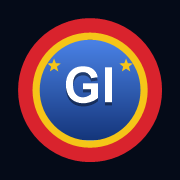
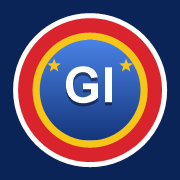
V7 : tout le site aux couleurs du GIGN (bleu roi, or, rouge, blanc) et nouvelles icones

diff --git a/index.html b/index.html
@@ -3,7 +3,7 @@
 <head>
   <meta charset="UTF-8">
   <meta name="viewport" content="width=device-width, initial-scale=1, viewport-fit=cover">
-  <meta name="theme-color" content="#050b18">
+  <meta name="theme-color" content="#0a2457">
   <meta name="color-scheme" content="dark">
   <meta name="description" content="ROAD TO GI : programme d'entraînement, charges, chronos et suivi, utilisable hors ligne.">
   <meta name="apple-mobile-web-app-capable" content="yes">
@@ -11,7 +11,7 @@
   <meta name="apple-mobile-web-app-title" content="ROAD TO GI">
   <title>ROAD TO GI</title>
   <style>
-:root{--bg:#050b18;--surface:#0b1730;--surface2:#11224a;--line:#223a70;--text:#f3f6fc;--muted:#94a3c4;--accent:#f5c518;--accent2:#2f64c8;--good:#58d39b;--warn:#f2bb5f;--danger:#ff4f58;--shadow:0 10px 30px rgba(0,0,0,.22)}*{box-sizing:border-box}html{background:var(--bg)}body{margin:0;background:var(--bg);color:var(--text);font-family:Inter,ui-sans-serif,system-ui,-apple-system,BlinkMacSystemFont,"Segoe UI",sans-serif;min-height:100vh}button,input,select,textarea{font:inherit}button{cursor:pointer}.shell{width:min(820px,100%);margin:auto;min-height:100vh;padding-bottom:92px}.topbar{position:sticky;top:0;z-index:20;background:rgba(5,11,24,.94);backdrop-filter:blur(16px);border-bottom:1px solid var(--line);padding:14px 16px;display:flex;align-items:center;justify-content:space-between;gap:12px}.brand{display:flex;align-items:center;gap:11px;min-width:0}.brandmark{width:42px;height:42px;border-radius:12px;background:var(--surface2);display:grid;place-items:center;border:1px solid var(--line);font-weight:900;color:var(--accent)}.brand h1{font-size:17px;letter-spacing:1.4px;margin:0}.brand p{font-size:12px;color:var(--muted);margin:2px 0 0}.top-controls{display:flex;gap:8px}.compact-select{appearance:none;border:1px solid var(--line);background:var(--surface);color:var(--text);border-radius:10px;padding:9px 26px 9px 10px;font-size:12px}.main{padding:16px}.hero{background:linear-gradient(135deg,#16356f,#0a1631);border:1px solid var(--line);border-radius:20px;padding:20px;margin-bottom:14px;box-shadow:var(--shadow)}.eyebrow{font-size:11px;letter-spacing:1.6px;font-weight:800;color:var(--accent);margin:0 0 8px}.hero h2{font-size:28px;line-height:1.05;margin:0 0 8px}.muted{color:var(--muted)}.hero p{margin:0}.hero-actions{display:flex;gap:10px;flex-wrap:wrap;margin-top:16px}.btn{border:1px solid var(--line);background:var(--surface2);color:var(--text);min-height:44px;border-radius:11px;padding:10px 14px;font-weight:750}.btn.primary{background:var(--accent);color:#050b18;border-color:transparent}.btn.good{background:var(--good);color:#082015;border-color:transparent}.btn.danger{color:#ffdfe1;border-color:#7a232b;background:#2a1219}.btn.ghost{background:transparent}.grid{display:grid;gap:12px}.stats{grid-template-columns:repeat(4,minmax(0,1fr));margin-bottom:14px}.stat{background:var(--surface);border:1px solid var(--line);border-radius:15px;padding:14px;min-width:0}.stat span{font-size:11px;color:var(--muted);display:block;margin-bottom:6px}.stat strong{font-size:18px;display:block;overflow-wrap:anywhere}.card{background:var(--surface);border:1px solid var(--line);border-radius:16px;padding:16px;margin-bottom:12px}.card h3,.card h4{margin:0}.card-head{display:flex;justify-content:space-between;gap:10px;align-items:center;margin-bottom:12px}.tag{display:inline-flex;align-items:center;gap:6px;padding:6px 9px;border-radius:999px;background:#1a2f63;color:#ffd84d;font-size:11px;font-weight:800}.progress{height:9px;background:#16275a;border-radius:999px;overflow:hidden}.progress>div{height:100%;background:var(--accent);border-radius:inherit}.schedule{display:grid;gap:7px}.schedule-row{border:1px solid var(--line);background:var(--surface2);border-radius:12px;padding:12px;display:grid;grid-template-columns:90px 1fr auto;align-items:center;gap:8px}.schedule-row.today{border-color:#f5c518;background:#14295c}.schedule-row .day{font-size:11px;color:var(--accent);font-weight:900}.schedule-row .kind{font-size:13px;font-weight:700}.schedule-row .arrow{color:var(--muted)}.section-title{font-size:22px;margin:6px 0 14px}.tabs{display:flex;gap:8px;overflow-x:auto;padding-bottom:8px;margin-bottom:8px}.tab{white-space:nowrap;border:1px solid var(--line);background:var(--surface);color:var(--muted);border-radius:999px;padding:9px 12px}.tab.active{background:#1b3770;color:#fff1b8;border-color:#d8ac12}.source-block{white-space:pre-wrap;line-height:1.5;color:#dbe3f3;font-size:13px;background:#070f22;border:1px solid var(--line);border-radius:12px;padding:13px;max-height:330px;overflow:auto}.source-block.expanded{max-height:none}.source-toggle{margin-top:10px}.worklist{display:grid;gap:7px}.workitem{display:grid;grid-template-columns:36px 1fr;gap:10px;align-items:flex-start;background:var(--surface2);border:1px solid var(--line);padding:11px;border-radius:12px}.workitem input{width:22px;height:22px;margin:1px 0}.workitem.done{opacity:.55}.workitem.done .worktext{text-decoration:line-through}.worktext{font-size:13px;line-height:1.38}.force-grid{display:grid;gap:8px}.force-row{display:grid;grid-template-columns:1fr 80px 76px 44px;gap:7px;align-items:center;background:var(--surface2);border:1px solid var(--line);border-radius:12px;padding:10px}.force-row input{width:100%;background:#070f22;color:var(--text);border:1px solid var(--line);border-radius:8px;padding:8px}.force-row .check{width:40px;height:40px;border-radius:9px;border:1px solid var(--line);background:#09142b;color:var(--text)}.force-row .check.done{background:var(--good);color:#062116}.timer-panel{text-align:center}.timer-display{font-variant-numeric:tabular-nums;font-size:54px;font-weight:900;letter-spacing:1px;margin:4px 0 12px}.timer-status{font-size:12px;color:var(--muted);min-height:18px}.quick-timers{display:flex;gap:7px;flex-wrap:wrap;justify-content:center;margin-top:10px}.quick-timers button{min-width:60px}.form-grid{display:grid;grid-template-columns:repeat(2,minmax(0,1fr));gap:12px}.field label{display:block;color:var(--muted);font-size:12px;margin-bottom:6px}.field input,.field select{width:100%;min-height:46px;background:#070f22;color:var(--text);border:1px solid var(--line);border-radius:10px;padding:10px 12px;font-size:16px}.notice{padding:12px;border:1px solid #2f4f94;border-radius:12px;background:#0f2250;color:#dbe6ff;font-size:13px;line-height:1.45}.history-row{display:grid;grid-template-columns:1fr auto;gap:10px;padding:12px 0;border-bottom:1px solid var(--line)}.history-row:last-child{border-bottom:0}.history-row small{color:var(--muted)}.bottomnav{position:fixed;left:50%;bottom:0;transform:translateX(-50%);width:min(820px,100%);height:76px;background:rgba(5,11,24,.97);border-top:1px solid var(--line);display:grid;grid-template-columns:repeat(6,1fr);z-index:30;padding-bottom:env(safe-area-inset-bottom)}.navbtn{border:0;background:transparent;color:#8191b5;display:flex;flex-direction:column;gap:4px;align-items:center;justify-content:center;font-size:10px}.navbtn b{font-size:18px}.navbtn.active{color:var(--accent)}.empty{padding:26px;text-align:center;color:var(--muted)}.pill-row{display:flex;gap:8px;flex-wrap:wrap}.result{font-size:13px;line-height:1.55}.result strong{color:#fff}.divider{height:1px;background:var(--line);margin:14px 0}.sr-only{position:absolute;width:1px;height:1px;padding:0;margin:-1px;overflow:hidden;clip:rect(0,0,0,0);white-space:nowrap;border:0}@media(max-width:640px){.stats{grid-template-columns:repeat(2,minmax(0,1fr))}.form-grid{grid-template-columns:1fr}.schedule-row{grid-template-columns:74px 1fr 16px}.force-row{grid-template-columns:1fr 65px 65px 40px}.top-controls{gap:5px}.compact-select{padding-left:8px;padding-right:20px}.hero h2{font-size:24px}.timer-display{font-size:46px}.main{padding:12px}}
+:root{--bg:#0a2457;--surface:#133a85;--surface2:#1b4a9e;--line:#3a69c4;--text:#ffffff;--muted:#b7c8f0;--accent:#f5c518;--accent2:#2f64c8;--good:#58d39b;--warn:#f2bb5f;--danger:#ff5a63;--shadow:0 10px 30px rgba(0,0,0,.22)}*{box-sizing:border-box}html{background:var(--bg)}body{margin:0;background:var(--bg);color:var(--text);font-family:Inter,ui-sans-serif,system-ui,-apple-system,BlinkMacSystemFont,"Segoe UI",sans-serif;min-height:100vh}button,input,select,textarea{font:inherit}button{cursor:pointer}.shell{width:min(820px,100%);margin:auto;min-height:100vh;padding-bottom:92px}.topbar{position:sticky;top:0;z-index:20;background:rgba(8,29,74,.94);backdrop-filter:blur(16px);border-bottom:1px solid var(--line);padding:14px 16px;display:flex;align-items:center;justify-content:space-between;gap:12px}.brand{display:flex;align-items:center;gap:11px;min-width:0}.brandmark{width:42px;height:42px;border-radius:12px;background:var(--surface2);display:grid;place-items:center;border:1px solid var(--line);font-weight:900;color:var(--accent)}.brand h1{font-size:17px;letter-spacing:1.4px;margin:0}.brand p{font-size:12px;color:var(--muted);margin:2px 0 0}.top-controls{display:flex;gap:8px}.compact-select{appearance:none;border:1px solid var(--line);background:var(--surface);color:var(--text);border-radius:10px;padding:9px 26px 9px 10px;font-size:12px}.main{padding:16px}.hero{background:linear-gradient(135deg,#2a66d6,#123a85);border:1px solid var(--line);border-radius:20px;padding:20px;margin-bottom:14px;box-shadow:var(--shadow)}.eyebrow{font-size:11px;letter-spacing:1.6px;font-weight:800;color:var(--accent);margin:0 0 8px}.hero h2{font-size:28px;line-height:1.05;margin:0 0 8px}.muted{color:var(--muted)}.hero p{margin:0}.hero-actions{display:flex;gap:10px;flex-wrap:wrap;margin-top:16px}.btn{border:1px solid var(--line);background:var(--surface2);color:var(--text);min-height:44px;border-radius:11px;padding:10px 14px;font-weight:750}.btn.primary{background:var(--accent);color:#061a45;border-color:transparent}.btn.good{background:var(--good);color:#082015;border-color:transparent}.btn.danger{color:#ffffff;border-color:#ff6b73;background:#c91f2a}.btn.ghost{background:transparent}.grid{display:grid;gap:12px}.stats{grid-template-columns:repeat(4,minmax(0,1fr));margin-bottom:14px}.stat{background:var(--surface);border:1px solid var(--line);border-radius:15px;padding:14px;min-width:0}.stat span{font-size:11px;color:var(--muted);display:block;margin-bottom:6px}.stat strong{font-size:18px;display:block;overflow-wrap:anywhere}.card{background:var(--surface);border:1px solid var(--line);border-radius:16px;padding:16px;margin-bottom:12px}.card h3,.card h4{margin:0}.card-head{display:flex;justify-content:space-between;gap:10px;align-items:center;margin-bottom:12px}.tag{display:inline-flex;align-items:center;gap:6px;padding:6px 9px;border-radius:999px;background:#0b2860;color:#ffd84d;font-size:11px;font-weight:800}.progress{height:9px;background:#0b2860;border-radius:999px;overflow:hidden}.progress>div{height:100%;background:var(--accent);border-radius:inherit}.schedule{display:grid;gap:7px}.schedule-row{border:1px solid var(--line);background:var(--surface2);border-radius:12px;padding:12px;display:grid;grid-template-columns:90px 1fr auto;align-items:center;gap:8px}.schedule-row.today{border-color:#f5c518;background:#2257b8}.schedule-row .day{font-size:11px;color:var(--accent);font-weight:900}.schedule-row .kind{font-size:13px;font-weight:700}.schedule-row .arrow{color:var(--muted)}.section-title{font-size:22px;margin:6px 0 14px}.tabs{display:flex;gap:8px;overflow-x:auto;padding-bottom:8px;margin-bottom:8px}.tab{white-space:nowrap;border:1px solid var(--line);background:var(--surface);color:var(--muted);border-radius:999px;padding:9px 12px}.tab.active{background:#2257b8;color:#fff1b8;border-color:#d8ac12}.source-block{white-space:pre-wrap;line-height:1.5;color:#eaf0ff;font-size:13px;background:#0b2860;border:1px solid var(--line);border-radius:12px;padding:13px;max-height:330px;overflow:auto}.source-block.expanded{max-height:none}.source-toggle{margin-top:10px}.worklist{display:grid;gap:7px}.workitem{display:grid;grid-template-columns:36px 1fr;gap:10px;align-items:flex-start;background:var(--surface2);border:1px solid var(--line);padding:11px;border-radius:12px}.workitem input{width:22px;height:22px;margin:1px 0}.workitem.done{opacity:.55}.workitem.done .worktext{text-decoration:line-through}.worktext{font-size:13px;line-height:1.38}.force-grid{display:grid;gap:8px}.force-row{display:grid;grid-template-columns:1fr 80px 76px 44px;gap:7px;align-items:center;background:var(--surface2);border:1px solid var(--line);border-radius:12px;padding:10px}.force-row input{width:100%;background:#0b2860;color:var(--text);border:1px solid var(--line);border-radius:8px;padding:8px}.force-row .check{width:40px;height:40px;border-radius:9px;border:1px solid var(--line);background:#0b2860;color:var(--text)}.force-row .check.done{background:var(--good);color:#062116}.timer-panel{text-align:center}.timer-display{font-variant-numeric:tabular-nums;font-size:54px;font-weight:900;letter-spacing:1px;margin:4px 0 12px}.timer-status{font-size:12px;color:var(--muted);min-height:18px}.quick-timers{display:flex;gap:7px;flex-wrap:wrap;justify-content:center;margin-top:10px}.quick-timers button{min-width:60px}.form-grid{display:grid;grid-template-columns:repeat(2,minmax(0,1fr));gap:12px}.field label{display:block;color:var(--muted);font-size:12px;margin-bottom:6px}.field input,.field select{width:100%;min-height:46px;background:#0b2860;color:var(--text);border:1px solid var(--line);border-radius:10px;padding:10px 12px;font-size:16px}.notice{padding:12px;border:1px solid #4a7ad6;border-radius:12px;background:#0e2f72;color:#e6eeff;font-size:13px;line-height:1.45}.history-row{display:grid;grid-template-columns:1fr auto;gap:10px;padding:12px 0;border-bottom:1px solid var(--line)}.history-row:last-child{border-bottom:0}.history-row small{color:var(--muted)}.bottomnav{position:fixed;left:50%;bottom:0;transform:translateX(-50%);width:min(820px,100%);height:76px;background:rgba(8,29,74,.97);border-top:1px solid var(--line);display:grid;grid-template-columns:repeat(6,1fr);z-index:30;padding-bottom:env(safe-area-inset-bottom)}.navbtn{border:0;background:transparent;color:#a9bdee;display:flex;flex-direction:column;gap:4px;align-items:center;justify-content:center;font-size:10px}.navbtn b{font-size:18px}.navbtn.active{color:var(--accent)}.empty{padding:26px;text-align:center;color:var(--muted)}.pill-row{display:flex;gap:8px;flex-wrap:wrap}.result{font-size:13px;line-height:1.55}.result strong{color:#fff}.divider{height:1px;background:var(--line);margin:14px 0}.sr-only{position:absolute;width:1px;height:1px;padding:0;margin:-1px;overflow:hidden;clip:rect(0,0,0,0);white-space:nowrap;border:0}@media(max-width:640px){.stats{grid-template-columns:repeat(2,minmax(0,1fr))}.form-grid{grid-template-columns:1fr}.schedule-row{grid-template-columns:74px 1fr 16px}.force-row{grid-template-columns:1fr 65px 65px 40px}.top-controls{gap:5px}.compact-select{padding-left:8px;padding-right:20px}.hero h2{font-size:24px}.timer-display{font-size:46px}.main{padding:12px}}
   
 /* Modification rapide des RM */
 .rm-head{
@@ -51,7 +51,7 @@
     padding:10px;
     border:1px solid var(--line);
     border-radius:12px;
-    background:#070f22;
+    background:#0b2860;
 }
 .rm-inline-editor label{
     flex:1;
@@ -66,7 +66,7 @@
     padding:8px 10px;
     border:1px solid var(--line);
     border-radius:9px;
-    background:#050c1b;
+    background:#0b2860;
     color:var(--text);
     font-size:16px;
 }
@@ -78,7 +78,7 @@
 }
 .course-session-tabs .btn.active{
     background:var(--accent);
-    color:#050b18;
+    color:#061a45;
     border-color:var(--accent);
 }
 .rm-form-grid{
@@ -106,10 +106,10 @@
 .renfo-row input[type=checkbox]{width:22px;height:22px}.renfo-row label{display:inline-flex;gap:8px;align-items:center}.renfo-options{width:100%;margin:12px 0}.timer-label{min-height:24px;line-height:1.5}.timer-panel{scroll-margin-top:85px}.renfo-complete{opacity:.6}
 
 .inline-timing{margin-top:10px}.inline-timing>.btn{font-size:12px;max-width:100%;text-align:left}.inline-timer-live{margin-top:10px;border-top:1px solid var(--line);padding-top:12px}.inline-timer-time{display:inline-block;font-size:32px;font-variant-numeric:tabular-nums;margin-right:12px}.inline-timer-status{color:var(--accent);font-size:12px}.inline-timer-label{font-size:12px;line-height:1.5;overflow-wrap:anywhere}.inline-timer-live .btn{font-size:12px}.workitem>div{min-width:0}
-.circuit-chrono{padding:16px;background:#0f2250;border:1px solid #d8ac12;border-radius:14px;margin-bottom:16px}.circuit-timer-display{font-size:42px;font-weight:900;font-variant-numeric:tabular-nums;margin:12px 0}.circuit-timer-label{font-size:13px;line-height:1.5}.circuit-chrono .btn{font-size:12px}
+.circuit-chrono{padding:16px;background:#0e2f72;border:1px solid #d8ac12;border-radius:14px;margin-bottom:16px}.circuit-timer-display{font-size:42px;font-weight:900;font-variant-numeric:tabular-nums;margin:12px 0}.circuit-timer-label{font-size:13px;line-height:1.5}.circuit-chrono .btn{font-size:12px}
 .live-clock{font-size:12px;color:var(--accent);margin-top:3px;font-variant-numeric:tabular-nums}.schedule-row{color:var(--text)}.schedule-date{display:block;color:var(--muted);margin-top:4px;font-size:11px}
 
-.wod-card .card-head{align-items:flex-start;flex-wrap:wrap}.wod-card .eyebrow{margin-bottom:5px}.wod-toolbar,.wod-block-actions{display:flex;gap:8px;flex-wrap:wrap;margin:12px 0}.wod-instruction{line-height:1.6;color:#cdd8ee;font-size:13px;margin:10px 0 16px;white-space:normal}.wod-blocks{display:grid;gap:12px}.wod-block{background:#08122a;border:1px solid var(--line);border-radius:14px;padding:16px}.wod-block h4{font-size:16px}.wod-exercises{display:grid;gap:0}.wod-exercise{margin:0;padding:12px 0;background:transparent;border:0;border-bottom:1px solid var(--line);border-radius:0;grid-template-columns:24px 1fr;gap:12px;align-items:center}.wod-exercise:last-child{border-bottom:0}.wod-exercise .worktext{font-size:14px;line-height:1.55;display:block}.wod-window{display:block;color:var(--accent);font-weight:700;font-size:11px;margin:4px 0}.wod-round-nav{display:flex;align-items:center;gap:10px;flex-wrap:wrap;margin:12px 0;padding:10px;background:#0f2250;border-radius:10px}.wod-round-nav strong{flex:1;font-size:14px}.wod-round-nav .btn{font-size:12px}.wod-round-nav .btn:disabled{opacity:.35;cursor:default}.wod-rest{display:flex;align-items:center;justify-content:space-between;gap:10px;flex-wrap:wrap;background:#0e1d40;border-left:3px solid var(--accent);padding:12px;border-radius:10px;font-size:13px}.wod-rest .btn,.wod-block-actions .btn{font-size:12px}.wod-clock{background:#0f2250;border:1px solid #d8ac12;border-radius:12px;padding:16px;margin:12px 0}.wod-clock-time{font-size:38px;font-variant-numeric:tabular-nums;margin-right:12px}.wod-clock-status{color:var(--accent);font-size:12px}.wod-clock-label{font-size:13px;line-height:1.5}.wod-rule{font-size:12px}.wod-block .tag{max-width:100%;white-space:normal}.wod-exercise .btn{font-size:12px;margin-top:8px}
+.wod-card .card-head{align-items:flex-start;flex-wrap:wrap}.wod-card .eyebrow{margin-bottom:5px}.wod-toolbar,.wod-block-actions{display:flex;gap:8px;flex-wrap:wrap;margin:12px 0}.wod-instruction{line-height:1.6;color:#dfe8fb;font-size:13px;margin:10px 0 16px;white-space:normal}.wod-blocks{display:grid;gap:12px}.wod-block{background:#0b2860;border:1px solid var(--line);border-radius:14px;padding:16px}.wod-block h4{font-size:16px}.wod-exercises{display:grid;gap:0}.wod-exercise{margin:0;padding:12px 0;background:transparent;border:0;border-bottom:1px solid var(--line);border-radius:0;grid-template-columns:24px 1fr;gap:12px;align-items:center}.wod-exercise:last-child{border-bottom:0}.wod-exercise .worktext{font-size:14px;line-height:1.55;display:block}.wod-window{display:block;color:var(--accent);font-weight:700;font-size:11px;margin:4px 0}.wod-round-nav{display:flex;align-items:center;gap:10px;flex-wrap:wrap;margin:12px 0;padding:10px;background:#0e2f72;border-radius:10px}.wod-round-nav strong{flex:1;font-size:14px}.wod-round-nav .btn{font-size:12px}.wod-round-nav .btn:disabled{opacity:.35;cursor:default}.wod-rest{display:flex;align-items:center;justify-content:space-between;gap:10px;flex-wrap:wrap;background:#0e2f72;border-left:3px solid var(--accent);padding:12px;border-radius:10px;font-size:13px}.wod-rest .btn,.wod-block-actions .btn{font-size:12px}.wod-clock{background:#0e2f72;border:1px solid #d8ac12;border-radius:12px;padding:16px;margin:12px 0}.wod-clock-time{font-size:38px;font-variant-numeric:tabular-nums;margin-right:12px}.wod-clock-status{color:var(--accent);font-size:12px}.wod-clock-label{font-size:13px;line-height:1.5}.wod-rule{font-size:12px}.wod-block .tag{max-width:100%;white-space:normal}.wod-exercise .btn{font-size:12px;margin-top:8px}
 
 /* V5 : confort iPhone, chrono flottant, sauvegarde */
 html{-webkit-text-size-adjust:100%;text-size-adjust:100%;color-scheme:dark}
@@ -117,14 +117,14 @@ body{-webkit-tap-highlight-color:transparent;overscroll-behavior-y:none}
 button,select,input,label,summary{touch-action:manipulation}
 .topbar{padding-top:calc(14px + env(safe-area-inset-top,0px));padding-left:calc(16px + env(safe-area-inset-left,0px));padding-right:calc(16px + env(safe-area-inset-right,0px))}
 .compact-select{font-size:16px}
-.mini-timer{position:fixed;left:50%;transform:translateX(-50%);bottom:calc(84px + env(safe-area-inset-bottom,0px));width:min(796px,calc(100% - 24px));z-index:25;display:flex;align-items:center;gap:10px;padding:10px 12px;background:#0f2250;border:1px solid #d8ac12;border-radius:14px;box-shadow:var(--shadow)}
+.mini-timer{position:fixed;left:50%;transform:translateX(-50%);bottom:calc(84px + env(safe-area-inset-bottom,0px));width:min(796px,calc(100% - 24px));z-index:25;display:flex;align-items:center;gap:10px;padding:10px 12px;background:#0e2f72;border:1px solid #d8ac12;border-radius:14px;box-shadow:var(--shadow)}
 .mini-timer[hidden]{display:none}
 .mini-timer-info{flex:1;min-width:0;display:flex;align-items:baseline;gap:10px}
 .mini-timer-info strong{font-size:26px;font-variant-numeric:tabular-nums}
 .mini-timer-info span{font-size:12px;color:#ffd84d;white-space:nowrap;overflow:hidden;text-overflow:ellipsis;min-width:0}
 .mini-timer .btn{min-height:40px;padding:8px 12px;font-size:13px}
 .mini-timer .btn[hidden]{display:none}
-.backup-text{width:100%;margin-top:12px;background:#070f22;color:var(--text);border:1px solid var(--line);border-radius:10px;padding:10px;font-size:16px;font-family:ui-monospace,Menlo,Consolas,monospace;resize:vertical}
+.backup-text{width:100%;margin-top:12px;background:#0b2860;color:var(--text);border:1px solid var(--line);border-radius:10px;padding:10px;font-size:16px;font-family:ui-monospace,Menlo,Consolas,monospace;resize:vertical}
 .btn:focus-visible,.navbtn:focus-visible,.tab:focus-visible,select:focus-visible,input:focus-visible,textarea:focus-visible{outline:2px solid var(--accent);outline-offset:2px}
 .navbtn{min-height:44px}
 .vma-table{width:100%;border-collapse:collapse;margin-top:14px;font-size:13px;font-variant-numeric:tabular-nums}
@@ -137,7 +137,7 @@ button,select,input,label,summary{touch-action:manipulation}
 .coach-notes summary::-webkit-details-marker{display:none}
 .coach-notes summary::after{content:"+";color:var(--accent);font-size:22px;line-height:1}
 .coach-notes[open] summary::after{content:"–"}
-.coach-notes ul{margin:14px 0 0;padding-left:18px;font-size:13px;line-height:1.6;color:#cdd8ee}
+.coach-notes ul{margin:14px 0 0;padding-left:18px;font-size:13px;line-height:1.6;color:#dfe8fb}
 .coach-notes li{margin-bottom:6px}
 @media (prefers-reduced-motion:reduce){*{scroll-behavior:auto!important;transition:none!important;animation:none!important}}
 
@@ -147,9 +147,24 @@ input[type=checkbox],input[type=radio]{accent-color:var(--accent)}
 .brandmark{width:44px;height:44px;border-radius:50%;background:radial-gradient(circle at 50% 36%,#4a82e6 0,#2f64c8 38%,#14357a 100%);border:3px solid var(--gign-gold);box-shadow:0 0 0 2px var(--gign-red),0 3px 10px rgba(0,0,0,.5);color:#fff;font-size:14px;letter-spacing:.5px;text-shadow:0 1px 2px rgba(0,0,0,.55)}
 .topbar{border-bottom:1px solid rgba(245,197,24,.35)}
 .bottomnav{border-top:1px solid rgba(245,197,24,.28)}
-.hero{border-color:#2f4f94}
+.hero{border-color:#4a7ad6}
 .btn.primary{box-shadow:0 2px 0 rgba(0,0,0,.25)}
 .tag{border:1px solid rgba(245,197,24,.25)}
+
+/* V7 : tout le site aux couleurs du GIGN (bleu roi, or, rouge, blanc) */
+html{background:#071d4b}
+body{background:linear-gradient(180deg,#0d2d6b 0,#0a2457 40%,#071d4b 100%);background-repeat:no-repeat;background-color:#071d4b}
+.topbar{border-bottom:0}
+.topbar::after{content:"";position:absolute;left:0;right:0;bottom:0;height:5px;background:linear-gradient(var(--gign-red) 0 50%,var(--gign-gold) 50% 100%)}
+.bottomnav{border-top:3px solid var(--gign-gold);box-shadow:0 -2px 0 var(--gign-red)}
+.brandmark{box-shadow:0 0 0 2px var(--gign-red),0 0 0 3.5px #fff,0 3px 10px rgba(0,0,0,.5);margin-right:3px}
+.btn.danger{border-color:#ff6b73}
+.hero{border-color:var(--gign-gold);box-shadow:0 10px 30px rgba(0,0,0,.28)}
+.card,.stat{box-shadow:0 4px 14px rgba(0,0,0,.18)}
+.tag{background:#0b2860;color:var(--gign-gold);border:1px solid rgba(245,197,24,.55)}
+.schedule-row.today{background:#1b4ca4;border-color:var(--gign-gold);box-shadow:inset 4px 0 0 var(--gign-gold)}
+.tab.active{border-color:var(--gign-gold)}
+.progress>div{background:linear-gradient(90deg,var(--gign-gold),#ffd84d)}
 </style>
 
   <link rel="manifest" href="manifest.json">

diff --git a/service-worker.js b/service-worker.js
@@ -1,4 +1,4 @@
-const CACHE='road-to-gi-v6';
+const CACHE='road-to-gi-v7';
 const ASSETS=['./','./index.html','./manifest.json','./icon-192.png','./icon-512.png','./apple-touch-icon.png'];
 const NETWORK_TIMEOUT=3500;
 self.addEventListener('install',e=>e.waitUntil(caches.open(CACHE).then(c=>c.addAll(ASSETS)).then(()=>self.skipWaiting())));
